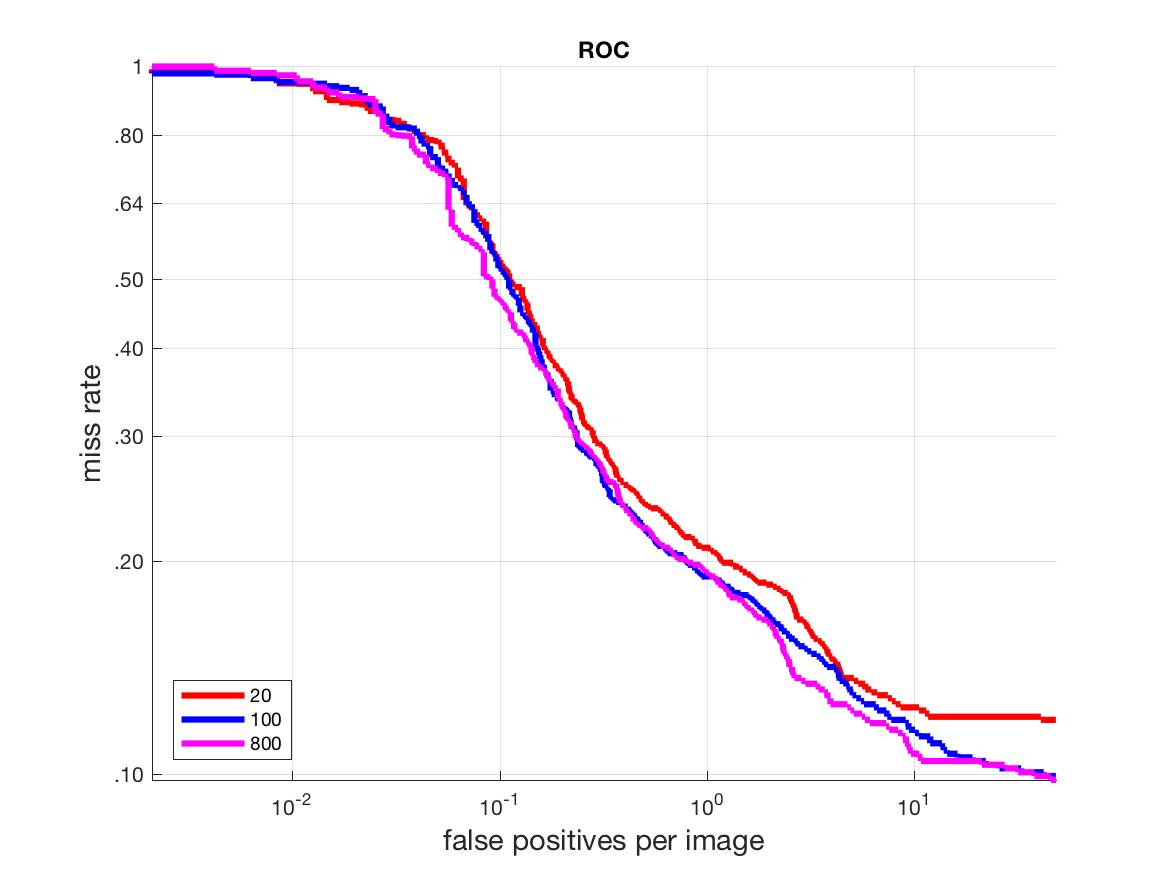
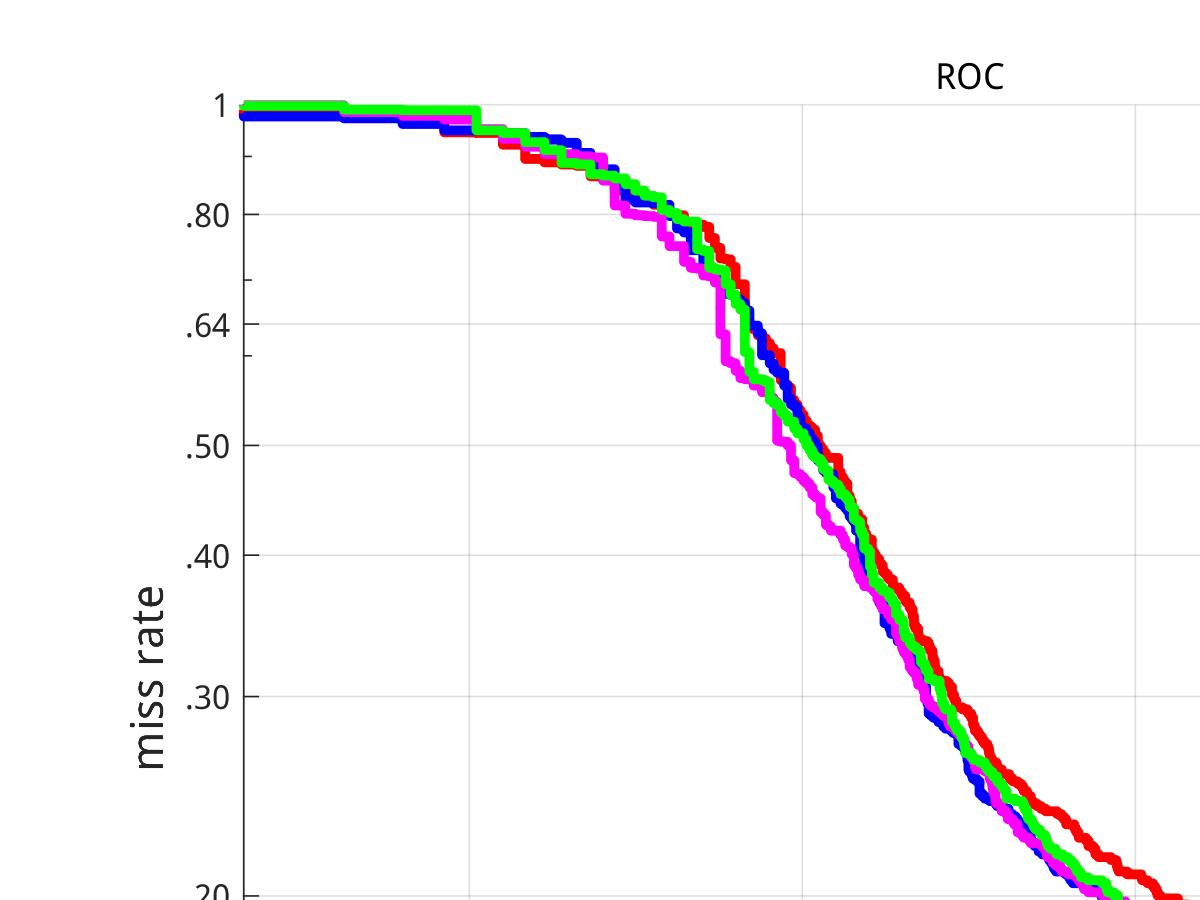
update

diff --git a/evaluation.m b/evaluation.m
@@ -3,7 +3,7 @@ close all
 p = genpath('../toolbox');
 addpath(p);
 
-fid1=fopen('configure/draw_list.cfg');
+fid1=fopen('configure/draw_compare_real.cfg');
 groundtruth = '';
 testFiles={};
 testNames={};
@@ -11,6 +11,7 @@ type={};
 i = 0;
 while ~feof(fid1)
     aline=fgetl(fid1);
+    aline
     if i == 0,
         strs = regexp(aline, ' ', 'split');
         groundtruth = strs{1};
@@ -18,6 +19,7 @@ while ~feof(fid1)
     else
        strs = regexp(aline, ' ', 'split');
        testFiles{i} = strs{1}; 
+       
        testNames{i} = strs{2};
        type{i} = strs{3};
     end
@@ -30,11 +32,17 @@ figure(1)
 yMin = 100;
 xMax = 0;
 grid on;
+
+samples = 10.^(-2:.25:0); % samples for computing area under the curve log-average miss rate
+plotRoc = 1;
 for i = 1:size(testFiles,2)
     [gt,dt] = bbGt( 'myLoadAll', groundtruth,testFiles{i},pLoad);
     thr = 0.5;
     [gt,dt] = bbGt('evalRes',gt,dt,thr,0);
-    [xs,ys] = bbGt('compRoc',gt,dt,1);
+    [xs,ys,~,score] = bbGt('compRoc',gt,dt,plotRoc, samples );
+    if(plotRoc),  score=1-score; end
+    if(plotRoc), score=exp(mean(log(score))); else score=mean(score); end
+    disp(score)
     ys = 1 - ys;
     hold on;
     plot(xs,ys,type{i},'LineWidth',3);
@@ -54,4 +62,4 @@ xlim([0 xMax]);
 ylim([yMin, 1]);
 
 legend(testNames,'Location','sw');
-saveas(gcf,saveImgName);
+% saveas(gcf,saveImgName);

diff --git a/caltechLoadBBX.m b/caltechLoadBBX.m
@@ -1,0 +1,49 @@
+p = genpath('../toolbox');
+addpath(p);
+p = genpath('../../DATA/code3.2.1');
+addpath(p);
+clear all;
+
+common = 'caltech_keep_1.1';
+anoDir = ['../../ATOCAR_CNN/results/rpn/' common '/'];
+saveName = ['../../DATA/Caltech/res/dt-' common '.mat'];
+evasaveName = ['../../DATA/Caltech/res/ev-' common '.mat'];
+stra=common; 
+stre='';
+anos = dir(fullfile(anoDir,'*.txt'));
+len = size(anos,1);
+len
+dt = cell(1,len);
+aspectRatio = .41;
+parfor i = 1:len
+    fileName = anos(i).name;
+    bboxes = bbGt('acfbbload',[anoDir '/' fileName ]);
+    bboxes=bbApply('resize',bboxes,0,0,aspectRatio); 
+    dt{i}=bboxes;
+end
+
+save(saveName,'dt','-v6');
+
+gt =  load('../../DATA/Caltech/res/gt-Reasonable.mat');
+gt = gt.gt;
+dt = load(saveName);
+dt = dt.dt;
+
+thr = 0.5;
+[gt,dt] = bbGt('evalRes',gt,dt,thr,0);
+[xs,ys] = bbGt('compRoc',gt,dt,1);
+ ys = 1 - ys;
+ plot(xs,ys,'LineWidth',3);
+ set(gca,'XScale','log','YScale','log',...
+        'XMinorGrid','on','XMinorTic','on',...
+        'YMinorGrid','on','YMinorTic','on');
+    title('ROC');
+    xlim([0 10]);
+    ylim([0 1]);
+    xlabel('false positives per image','FontSize',14);
+    ylabel('miss rate','FontSize',14);
+    legend(stra);
+
+
+R=struct('stra',stra,'stre',stre,'gtr',{gt},'dtr',{dt});
+save(evasaveName,'R');
